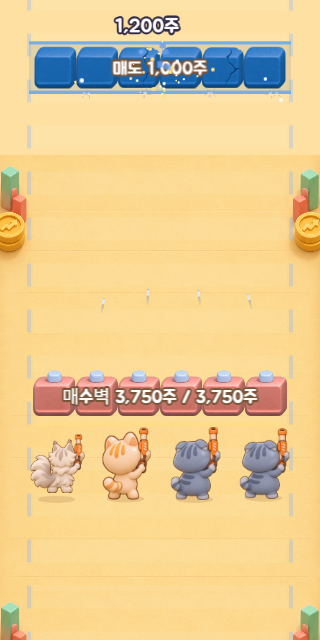
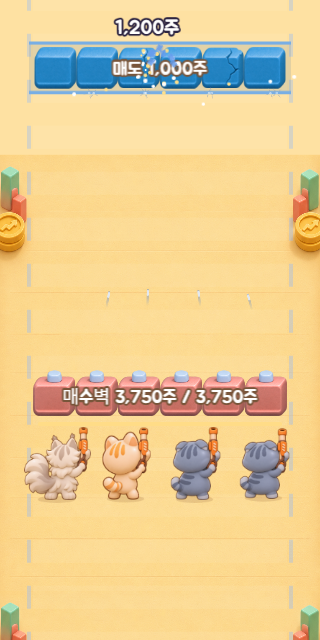
fix: 고양이 높이와 발 기준선을 통일

Changed region(s): [[0.0938, 0.0, 0.9062, 0.1562], [0.0625, 0.6562, 0.2812, 0.7812], [0.3125, 0.4375, 0.3438, 0.5]]

diff --git a/app/src/mental/stageArt.ts b/app/src/mental/stageArt.ts
@@ -10,6 +10,7 @@ export function drawSprite(
   image: HTMLImageElement,
   cell: Rect,
   target: Rect,
+  fit: 'contain' | 'height' = 'contain',
 ) {
   let cache = bounds.get(image)
   if (!cache) {
@@ -45,7 +46,9 @@ export function drawSprite(
         : cell
     cache.set(key, crop)
   }
-  const scale = Math.min(target.w / crop.w, target.h / crop.h)
+  // 고양이는 풍성한 꼬리 때문에 몸이 작아지지 않도록 높이를 기준으로 맞춘다.
+  const scale =
+    fit === 'height' ? target.h / crop.h : Math.min(target.w / crop.w, target.h / crop.h)
   const w = crop.w * scale,
     h = crop.h * scale
   c.drawImage(

diff --git a/app/src/mental/catModels.ts b/app/src/mental/catModels.ts
@@ -2,11 +2,11 @@
 export type CatModel = 'hero' | 'fold' | 'fluffy'
 export const mateModel = (index: number): CatModel => (index % 2 === 0 ? 'fold' : 'fluffy')
 
-/** drawSprite의 { x: 14, y: 3, w: 75, h: 100 } 배치 안에서 실제 총구 좌표. */
+/** drawSprite의 높이 100 배치 안에서 실제 총구 좌표. 꼬리 폭으로 크기를 줄이지 않는다. */
 const MUZZLES: Record<CatModel, { x: number; y: number }> = {
   hero: { x: 75, y: 5 },
   fold: { x: 78, y: 5 },
-  fluffy: { x: 82, y: 14 },
+  fluffy: { x: 89, y: 5 },
 }
 
 export function catMuzzle(model: CatModel, x: number, y: number) {

diff --git a/app/src/mental/art.ts b/app/src/mental/art.ts
@@ -75,6 +75,7 @@ export function bakeHero(scene: Phaser.Scene) {
         source,
         { x: 0, y: 0, w: source.width, h: source.height },
         { x: 14, y: 3, w: 75, h: 100 },
+        'height',
       )
       if (key === 'hero-hurt') {
         c.globalCompositeOperation = 'source-atop'
@@ -101,6 +102,7 @@ export function bakeMates(scene: Phaser.Scene) {
         source,
         { x: 0, y: 0, w: source.width, h: source.height },
         { x: 14, y: 3, w: 75, h: 100 },
+        'height',
       )
     })
   }

diff --git a/app/src/mental/StagePortrait.tsx b/app/src/mental/StagePortrait.tsx
@@ -29,6 +29,7 @@ export function StagePortrait({ weapon }: { weapon: Weapon }) {
         source,
         { x: 0, y: 0, w: source.width, h: source.height },
         { x: 14, y: 3, w: 75, h: 100 },
+        'height',
       )
     }
     source.src = STAGE_ASSETS.hero

diff --git a/app/src/mental/assets/README.md b/app/src/mental/assets/README.md
@@ -8,6 +8,7 @@
 - street.png: 이전 민트 거리 배경 원본 (현재 미사용)
 - hero-upward.png: 승인한 옆으로 튼 고양이·상향 총·두 앞발 원본. 준비 화면과 전투 모두 분리·재작화 없이 그대로 쓴다. 포즈는 고정하고 탄환의 수동·자동 조준은 기존대로다. 장착 무기의 등급·종류별 피해·탄환 효과도 유지한다.
 - cat-fold-upward.png / cat-fluffy-upward.png: 승인한 접힌 귀·장모 고양이. 기존 동료 카드와 최대 세 마리 규칙을 유지하며 접힌 귀 → 장모 → 접힌 귀 순서로 사용한다. 색상 합성은 하지 않는다.
+- 세 모델은 같은 높이와 발 기준선으로 그린다. 장모의 넓은 꼬리 때문에 몸 전체를 축소하지 않는다.
 - hero-toy.png: 이전 무기 없는 몸통 (현재 미사용).
 - hero.png: 이전 고양이 원본 (현재 미사용)
 - enemies.png: 2×2 아틀라스. 좌상 패닉, 우상 투매, 좌하 투기, 우하 손절
